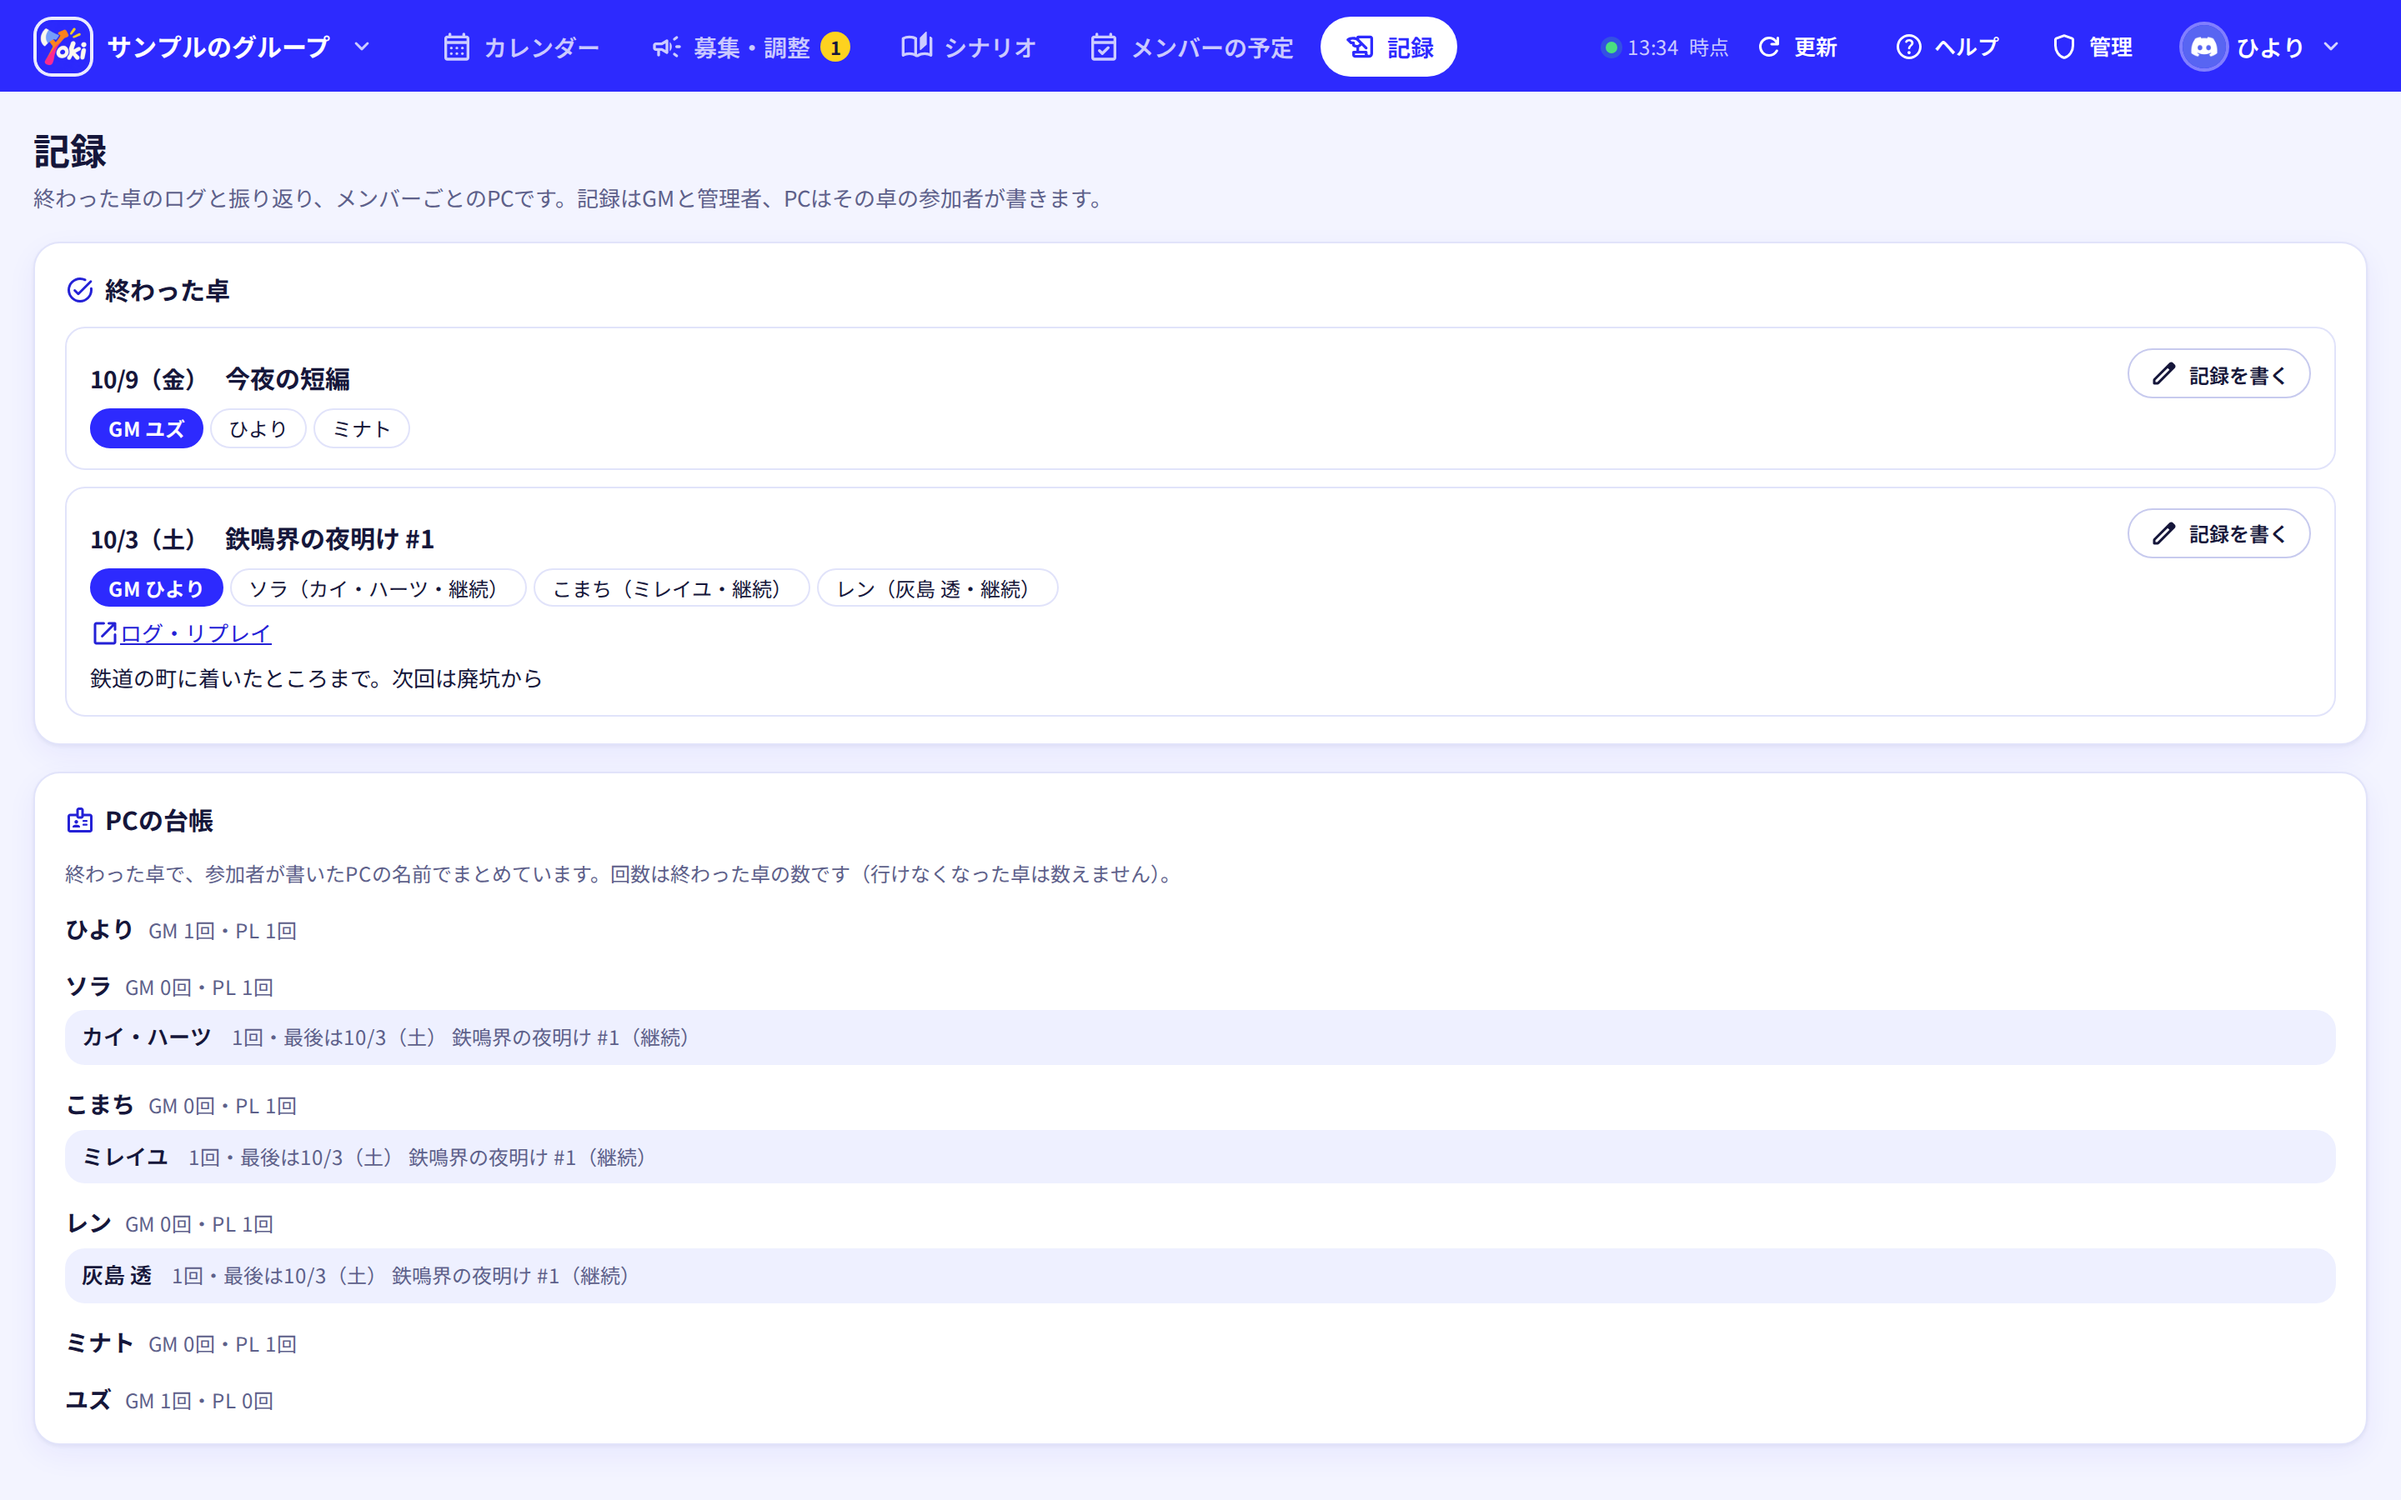
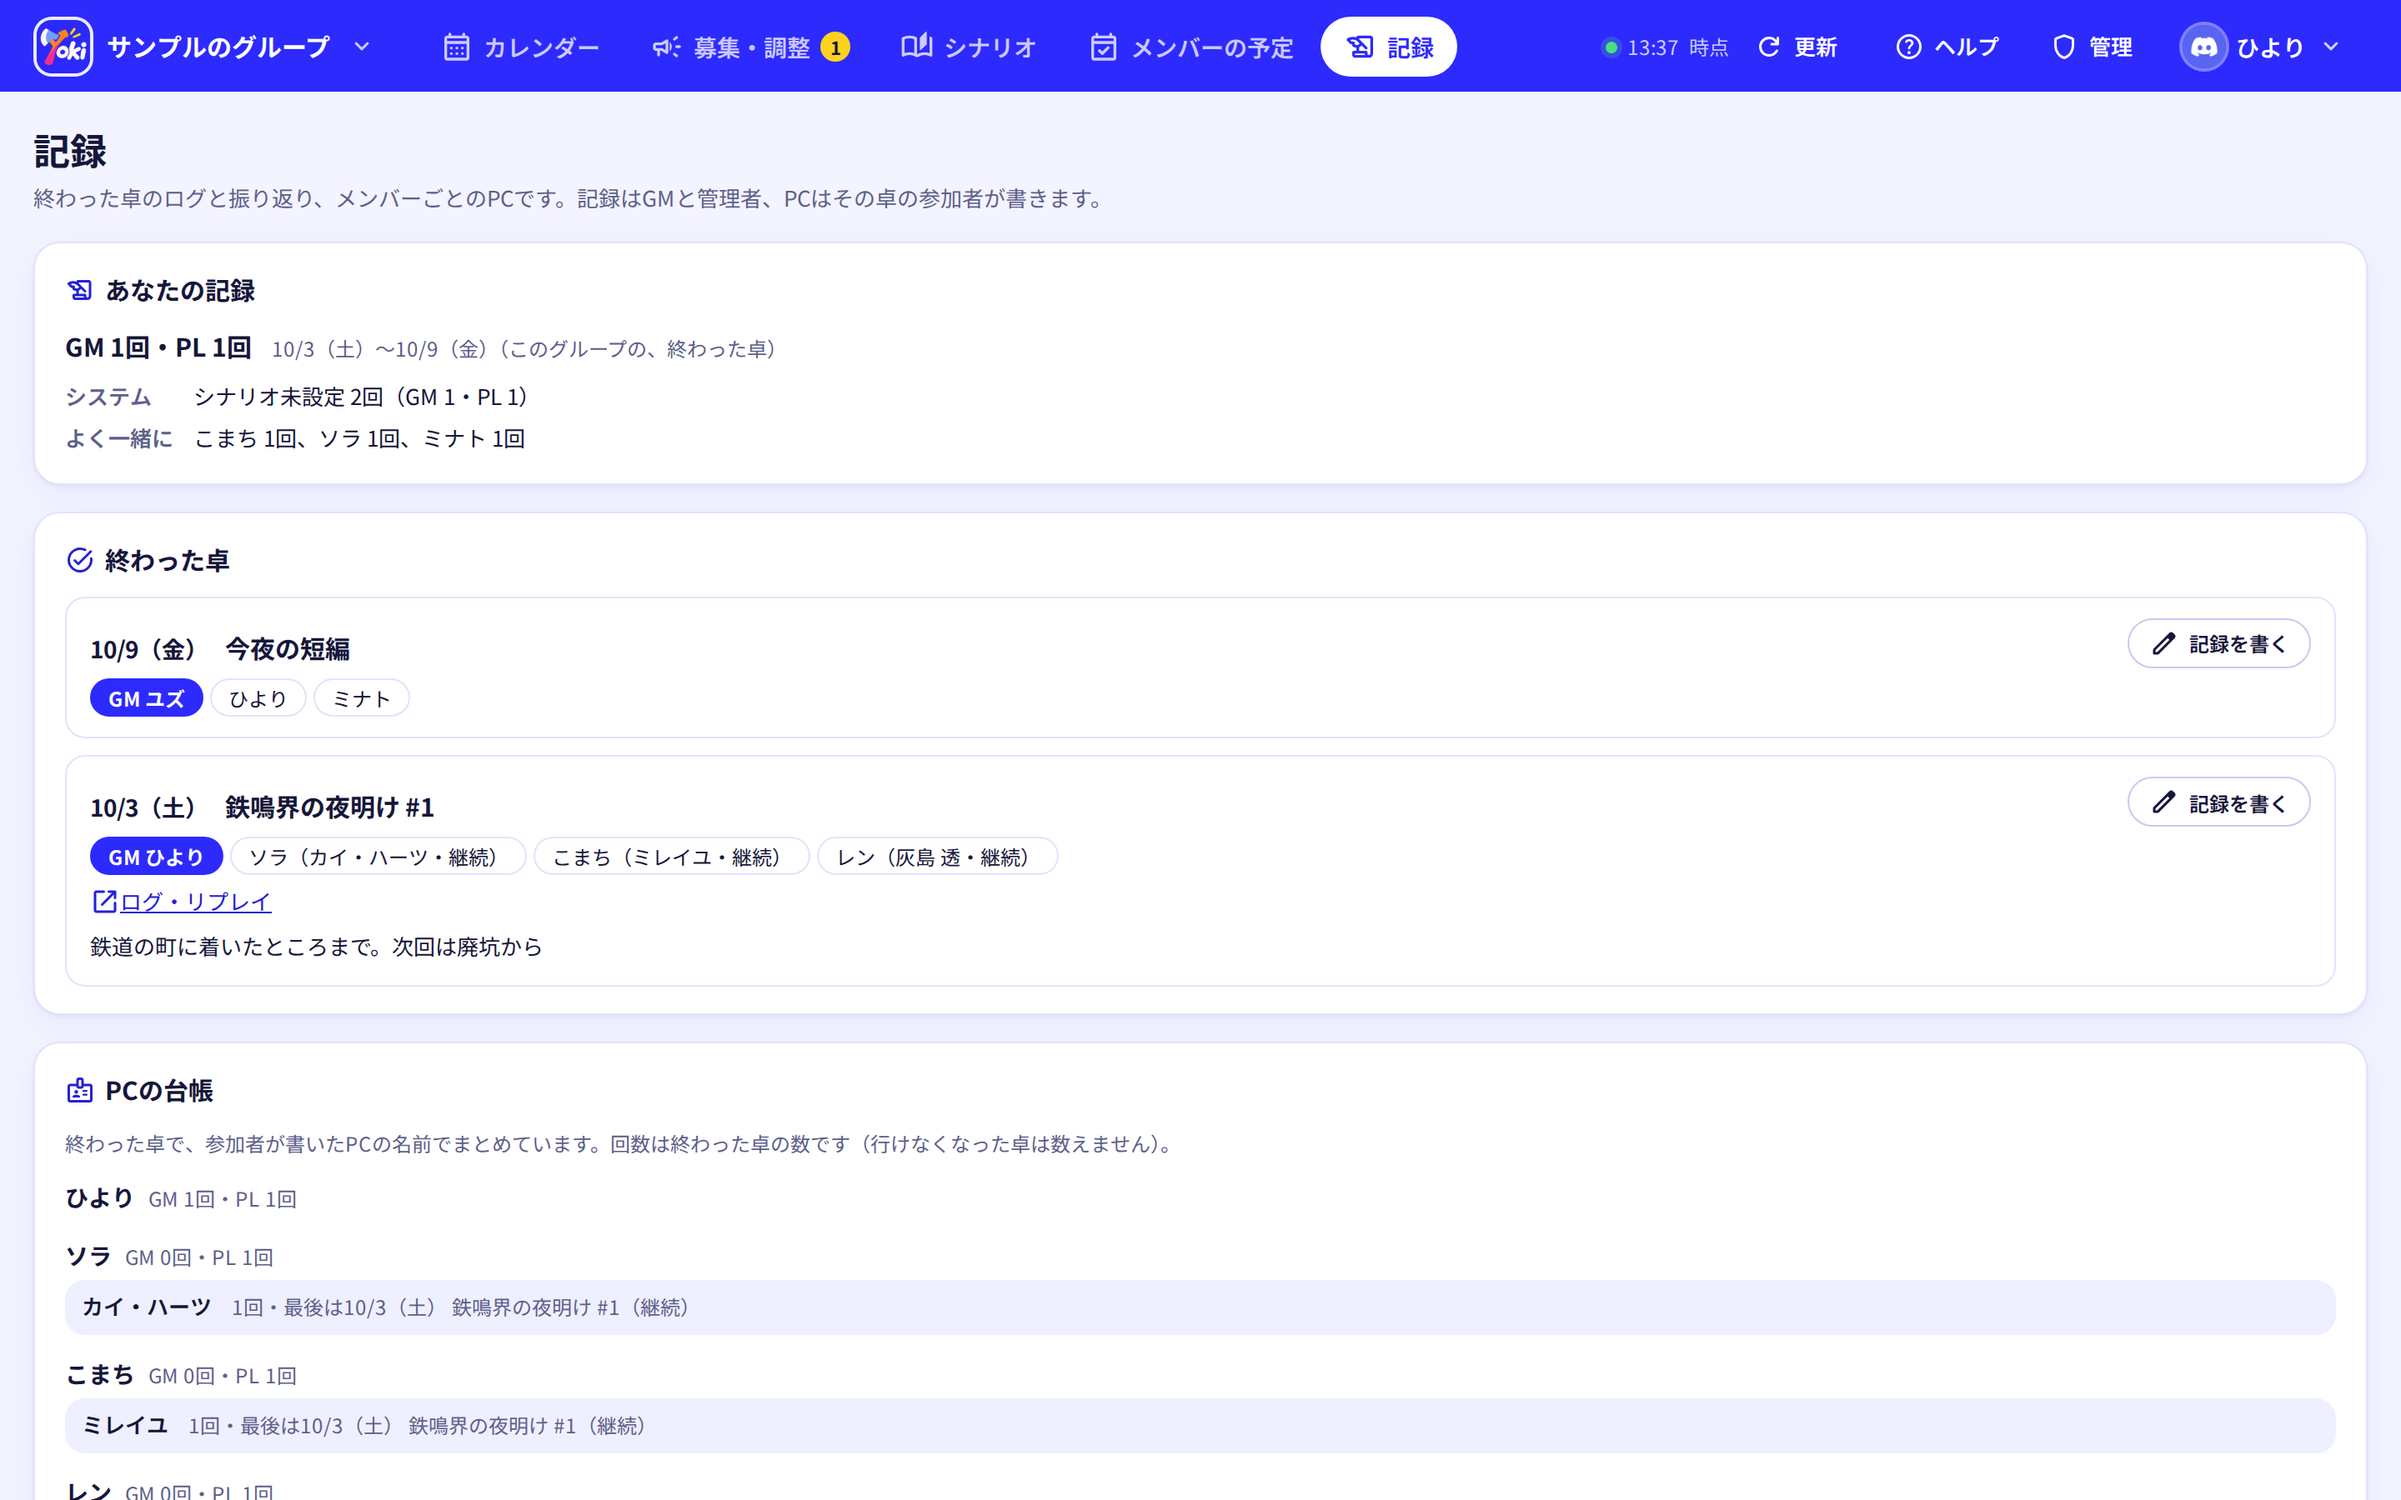
feat(client): 記録のタブに「あなたの記録」を出す
- このグループで終えた卓のうち、自分が入った卓から、GMとPLの回数・期間・システムごとの回数・よく一緒に遊んだ人・使ったPCをまとめる
- 共同GMはGMに数え、行けなくなった卓は数えない

diff --git a/src/client/features/console/records/RecordsTab.tsx b/src/client/features/console/records/RecordsTab.tsx
@@ -1,4 +1,4 @@
-// 記録のタブ: 終わった卓（ログ・振り返り・参加者のPCと結果）と、メンバーごとのPCの台帳
+// 記録のタブ: あなたの記録（回数・システム・よく一緒に遊んだ人・PC）、終わった卓（ログ・振り返り・参加者のPCと結果）と、メンバーごとのPCの台帳
 import { useState } from 'react';
 import { Icon } from '../../../ui/Icon';
 import { PageHead } from '../../../ui/PageHead';
@@ -7,7 +7,7 @@ import { useConsole, useData } from '../context';
 import { fmtJa } from '../model/dates';
 import { me, scenarioOf } from '../model/model';
 import { people, personChip } from '../styles';
-import { finishedSessions, ledger } from './ledger';
+import { finishedSessions, ledger, myStats } from './ledger';
 import { gmsOf, isGm } from '../../../../shared/gm';
 
 /** はじめに出す、終わった卓の数（多いときは「もっと見る」で開く） */
@@ -20,9 +20,22 @@ export function RecordsTab() {
   const [all, setAll] = useState(false);
   const done = finishedSessions(d), list = all ? done : done.slice(0, SHOWN);
   const rows = ledger(d).filter((r) => r.gm || r.pl || r.pcs.length);
+  const my = myStats(d, mine), myPcs = rows.find((r) => r.name === mine)?.pcs ?? [];
   return (
     <section id="tab-records">
       <PageHead title="記録" lead="終わった卓のログと振り返り、メンバーごとのPCです。記録はGMと管理者、PCはその卓の参加者が書きます。" />
+      {my.gm + my.pl > 0 && (
+        <div className="card" id="myRecord">
+          <h3><Icon name="history_edu" size="sm" />あなたの記録</h3>
+          <p className="m-0 text-15"><b>{'GM ' + my.gm + '回・PL ' + my.pl + '回'}</b><span className="hint">{'　' + fmtJa(my.first) + (my.first !== my.last ? '〜' + fmtJa(my.last) : '') + '（このグループの、終わった卓）'}</span></p>
+          <dl className="mt-8 mb-0 grid grid-cols-[max-content_minmax(0,1fr)] gap-x-12 gap-y-4 text-13">
+            <dt className="font-semibold text-muted">システム</dt>
+            <dd className="m-0" id="mySystems">{my.systems.map((x) => x.system + ' ' + (x.gm + x.pl) + '回' + (x.gm && x.pl ? '（GM ' + x.gm + '・PL ' + x.pl + '）' : x.gm ? '（GM）' : '')).join('、')}</dd>
+            {my.partners.length > 0 && <><dt className="font-semibold text-muted">よく一緒に</dt><dd className="m-0" id="myPartners">{my.partners.map((x) => x.name + ' ' + x.n + '回').join('、')}</dd></>}
+            {myPcs.length > 0 && <><dt className="font-semibold text-muted">PC</dt><dd className="m-0" id="myPcs">{myPcs.map((pc) => pc.pc + '（' + pc.sessions.length + '回' + (pc.sessions.at(-1)!.outcome ? '・' + pc.sessions.at(-1)!.outcome : '') + '）').join('、')}</dd></>}
+          </dl>
+        </div>
+      )}
       <div className="card" id="doneList">
         <h3><Icon name="task_alt" size="sm" />終わった卓</h3>
         {!done.length && <p className="hint">まだ終わった卓はありません。</p>}

diff --git a/test/client/my-stats.test.ts b/test/client/my-stats.test.ts
@@ -1,0 +1,40 @@
+// 記録のタブの「あなたの記録」（src/client/features/console/records/ledger.tsのmyStats）
+import { expect, test } from 'vitest';
+import type { ConsoleData, ConsoleSession } from '../../src/shared/api';
+import { myStats } from '../../src/client/features/console/records/ledger';
+
+const session = (o: Partial<ConsoleSession>): ConsoleSession => ({
+  id: 'S001', name: '卓', gm: '', coGms: [], members: [], status: '終了', date: '2026-10-01', start: '', end: '', scenarioId: '', absent: [], ...o,
+}) as ConsoleSession;
+const data = (sessions: ConsoleSession[]): ConsoleData => ({
+  today: '2026-10-10',
+  sessions,
+  scenarios: [{ id: '1', name: '狂気山脈', system: 'クトゥルフ神話TRPG' }, { id: '2', name: '古城', system: '' }],
+  members: [],
+}) as unknown as ConsoleData;
+
+test('GM（共同GMも）とPLの回数、最初と最後の日。行けなくなった卓・終わっていない卓は数えない', () => {
+  const d = data([
+    session({ id: 'S001', date: '2026-09-01', gm: 'ひより', members: ['ソラ'], scenarioId: '1' }),
+    session({ id: 'S002', date: '2026-09-15', gm: 'こまち', coGms: ['ひより'], members: ['ソラ'] }),
+    session({ id: 'S003', date: '2026-10-01', gm: 'ソラ', members: ['ひより'], scenarioId: '2' }),
+    session({ id: 'S004', date: '2026-10-05', gm: 'ソラ', members: ['ひより'], absent: [{ name: 'ひより', note: '', at: '' }] }),
+    session({ id: 'S005', date: '2026-10-20', status: '開催', gm: 'ひより' }),
+  ]);
+  expect(myStats(d, 'ひより')).toEqual({
+    gm: 2, pl: 1, first: '2026-09-01', last: '2026-10-01',
+    systems: [
+      { system: 'クトゥルフ神話TRPG', gm: 1, pl: 0 }, { system: 'システム未設定', gm: 0, pl: 1 }, { system: 'シナリオ未設定', gm: 1, pl: 0 },
+    ],
+    partners: [{ name: 'ソラ', n: 3 }, { name: 'こまち', n: 1 }],
+  });
+});
+
+test('卓に入っていなければ空。一緒に遊んだ人は3人まで、行けなくなった人は数えない', () => {
+  expect(myStats(data([]), 'ひより')).toEqual({ gm: 0, pl: 0, first: '', last: '', systems: [], partners: [] });
+  const d = data([
+    session({ gm: 'ひより', members: ['あ', 'い', 'う', 'え'], absent: [{ name: 'え', note: '', at: '' }] }),
+    session({ id: 'S002', date: '2026-10-02', gm: 'ひより', members: ['う'] }),
+  ]);
+  expect(myStats(d, 'ひより').partners).toEqual([{ name: 'う', n: 2 }, { name: 'あ', n: 1 }, { name: 'い', n: 1 }]);
+});

diff --git a/src/client/features/console/records/ledger.ts b/src/client/features/console/records/ledger.ts
@@ -39,3 +39,37 @@ export function ledger(d: ConsoleData): LedgerRow[] {
     pcs: [...r.pcs.values()].sort((a, b) => (b.sessions.at(-1)!.date).localeCompare(a.sessions.at(-1)!.date)),
   }));
 }
+
+/**
+ * あなたの遊んだ記録（このグループ）。終わった卓のうち、GM（共同GMも）か参加者として入った卓（行けなくなった卓は数えない）から作る。
+ * systemsはシステムごとの回数（多い順。シナリオの無い卓は「シナリオ未設定」、システムの無いシナリオは「システム未設定」）、
+ * partnersはよく一緒に遊んだ人（GMも参加者も数える。多い順に3人まで）、first・lastは最初と最後に終えた卓の日
+ */
+export type MyStats = {
+  gm: number; pl: number; first: string; last: string;
+  systems: { system: string; gm: number; pl: number }[];
+  partners: { name: string; n: number }[];
+};
+
+export function myStats(d: ConsoleData, name: string): MyStats {
+  const out: MyStats = { gm: 0, pl: 0, first: '', last: '', systems: [], partners: [] };
+  const systems = new Map<string, { system: string; gm: number; pl: number }>(), partners = new Map<string, number>();
+  finishedSessions(d).reverse().forEach((s) => {
+    const asGm = gmsOf(s).includes(name), asPl = s.members.includes(name) && !s.absent.some((a) => a.name === name);
+    if (!asGm && !asPl) return;
+    if (asGm) out.gm++; else out.pl++;
+    out.first ||= s.date;
+    out.last = s.date;
+    const sc = d.scenarios.find((x) => x.id === s.scenarioId);
+    const key = !sc ? 'シナリオ未設定' : sc.system || 'システム未設定';
+    const row = systems.get(key) ?? { system: key, gm: 0, pl: 0 };
+    if (asGm) row.gm++; else row.pl++;
+    systems.set(key, row);
+    for (const n of [...gmsOf(s), ...s.members]) {
+      if (n !== name && !s.absent.some((a) => a.name === n)) partners.set(n, (partners.get(n) ?? 0) + 1);
+    }
+  });
+  out.systems = [...systems.values()].sort((a, b) => b.gm + b.pl - (a.gm + a.pl) || a.system.localeCompare(b.system, 'ja'));
+  out.partners = [...partners].map(([n, c]) => ({ name: n, n: c })).sort((a, b) => b.n - a.n || a.name.localeCompare(b.name, 'ja')).slice(0, 3);
+  return out;
+}

diff --git a/test/e2e/smoke.js b/test/e2e/smoke.js
@@ -272,6 +272,9 @@ await withDevServer(async (base) => {
       const s = (await D()).sessions.find((x) => x.name === '鉄鳴界の夜明け #1');
       assert.match(await page.textContent(`#doneList [data-done="${s.id}"]`), /ソラ（カイ・ハーツ・継続）/);
       assert.match(await page.textContent('#pcLedger [data-ledger="ソラ"]'), /カイ・ハーツ/);
+      // いちばん上に、自分（ひより）の記録が出る
+      assert.match(await page.textContent('#myRecord'), /GM \d+回・PL \d+回/);
+      assert.ok((await page.textContent('#mySystems')).length > 0, 'システムごとの回数が出る');
       await page.click(`#doneList button[data-record="${s.id}"]`);
       await page.fill('#recordRecap', 'e2eの振り返り');
       await page.click('#recordSave');

diff --git a/website/guide/records.md b/website/guide/records.md
@@ -1,12 +1,16 @@
 ---
-description: 終わった卓に、ログ（リプレイ）と振り返り、PCの名前と結果を残す。メンバーごとのPCの台帳。
+description: 終わった卓に、ログ（リプレイ）と振り返り、PCの名前と結果を残す。あなたの記録と、メンバーごとのPCの台帳。
 ---
 
 # 卓の記録とPC
 
 終わった卓の記録と、メンバーごとのPCは、上の <Ui icon="history_edu">記録</Ui> タブにまとまっています。
 
-<Shot name="pc-records" alt="記録のタブ。終わった卓のログと振り返り、参加者のPCと結果が並び、下にメンバーごとのPCの台帳がある" />
+<Shot name="pc-records" alt="記録のタブ。上にあなたの記録、その下に終わった卓のログと振り返り、参加者のPCと結果が並び、下にメンバーごとのPCの台帳がある" />
+
+## あなたの記録
+
+記録のタブのいちばん上には、このグループで終えた卓のうち、あなたが入った卓をまとめて出します。GMとPLの回数（共同GMはGMに数える）、システムごとの回数、よく一緒に遊んだ人（3人まで）、使ったPCです。行けなくなった卓は数えません。
 
 ## 終わった卓に記録を書く
 
